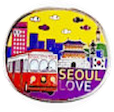
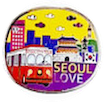
style: 큰 물건들 크기 좀 작게 조정

diff --git a/src/assets/souvenir/item.ts b/src/assets/souvenir/item.ts
@@ -1,4 +1,4 @@
-import { ISouvenir } from "@/type/souvenir/Isouvenir";
+import { ISouvenir } from "@/type/souvenir/ISouvenir";
 
 export const ITEM_BASE: ISouvenir[] = [
   {
@@ -23,30 +23,30 @@ export const ITEM_BASE: ISouvenir[] = [
   },
   {
     name: "assets/souvenir/item/item5",
-    radius: 114 / 2,
+    radius: 104 / 2,
   },
   {
     name: "assets/souvenir/item/item6",
-    radius: 129 / 2,
+    radius: 119 / 2,
   },
   {
     name: "assets/souvenir/item/item7",
-    radius: 156 / 2,
+    radius: 128 / 2,
   },
   {
     name: "assets/souvenir/item/item8",
-    radius: 177 / 2,
+    radius: 146 / 2,
   },
   {
     name: "assets/souvenir/item/item9",
-    radius: 220 / 2,
+    radius: 160 / 2,
   },
   {
     name: "assets/souvenir/item/item10",
-    radius: 259 / 2,
+    radius: 182 / 2,
   },
   {
     name: "assets/souvenir/item/item11",
-    radius: 289 / 2,
+    radius: 198 / 2,
   },
 ];

diff --git a/src/utils/souvenir/addItem.ts b/src/utils/souvenir/addItem.ts
@@ -1,6 +1,6 @@
 import { ITEM_BASE } from "@/assets/souvenir/item";
 import { ICustomBodyDefinition } from "@/type/souvenir/ICustomBodyDefinition";
-import { ISouvenir } from "@/type/souvenir/Isouvenir";
+import { ISouvenir } from "@/type/souvenir/ISouvenir";
 import { Bodies, Engine, World } from "matter-js";
 import { RefObject } from "react";
 
@@ -12,8 +12,8 @@ export const addItem = (
   const engine = engineRef.current;
   if (!engine) return; // engine이 없으면 함수를 빠져나옴
 
-  //const index = Math.floor(Math.random() * 6);
-  const index = 7;
+  const index = Math.floor(Math.random() * 6);
+  //const index = 7;
   const fruit = ITEM_BASE[index];
   const body = Bodies.circle(200, 50, fruit.radius, {
     index: index,

diff --git a/src/hooks/souvenir/useMouseEvent.tsx b/src/hooks/souvenir/useMouseEvent.tsx
@@ -9,7 +9,7 @@ import {
   Render,
   World,
 } from "matter-js";
-import { ISouvenir } from "@/type/souvenir/Isouvenir";
+import { ISouvenir } from "@/type/souvenir/ISouvenir";
 import { ITEM_BASE } from "@/assets/souvenir/item";
 import { ICustomBodyDefinition } from "@/type/souvenir/ICustomBodyDefinition";
 import { createSmoke } from "@/utils/souvenir/createSmoke";
